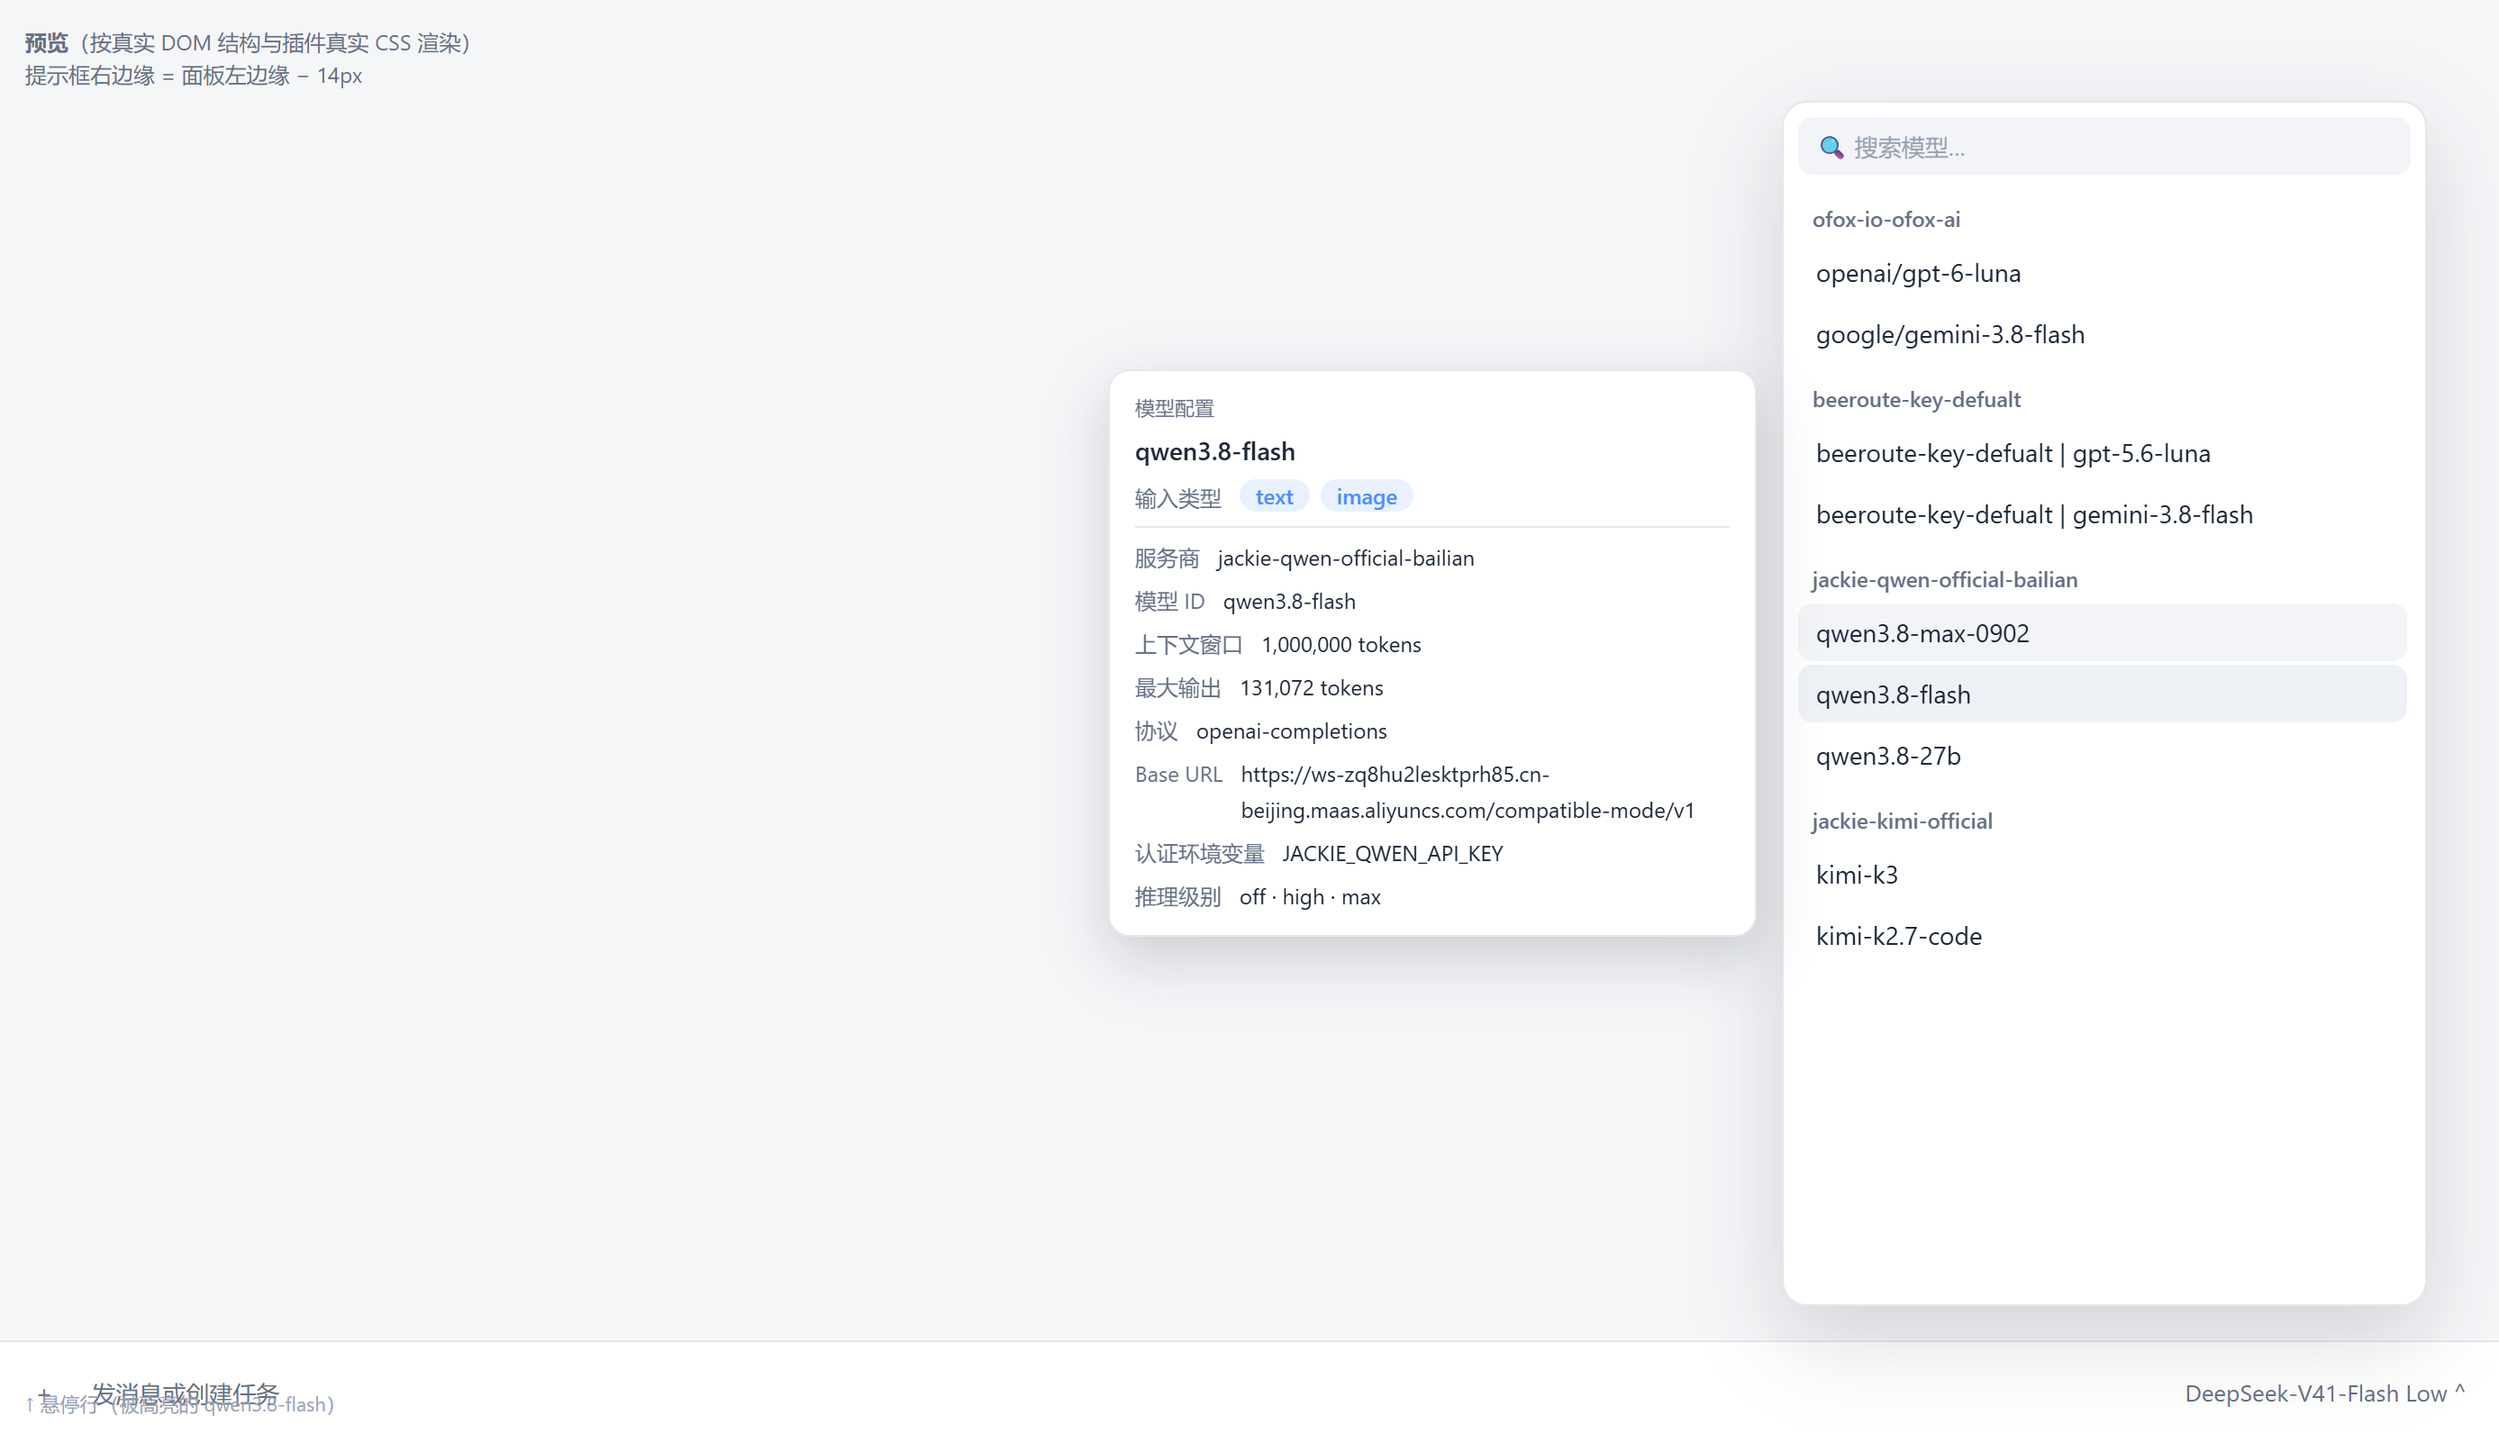
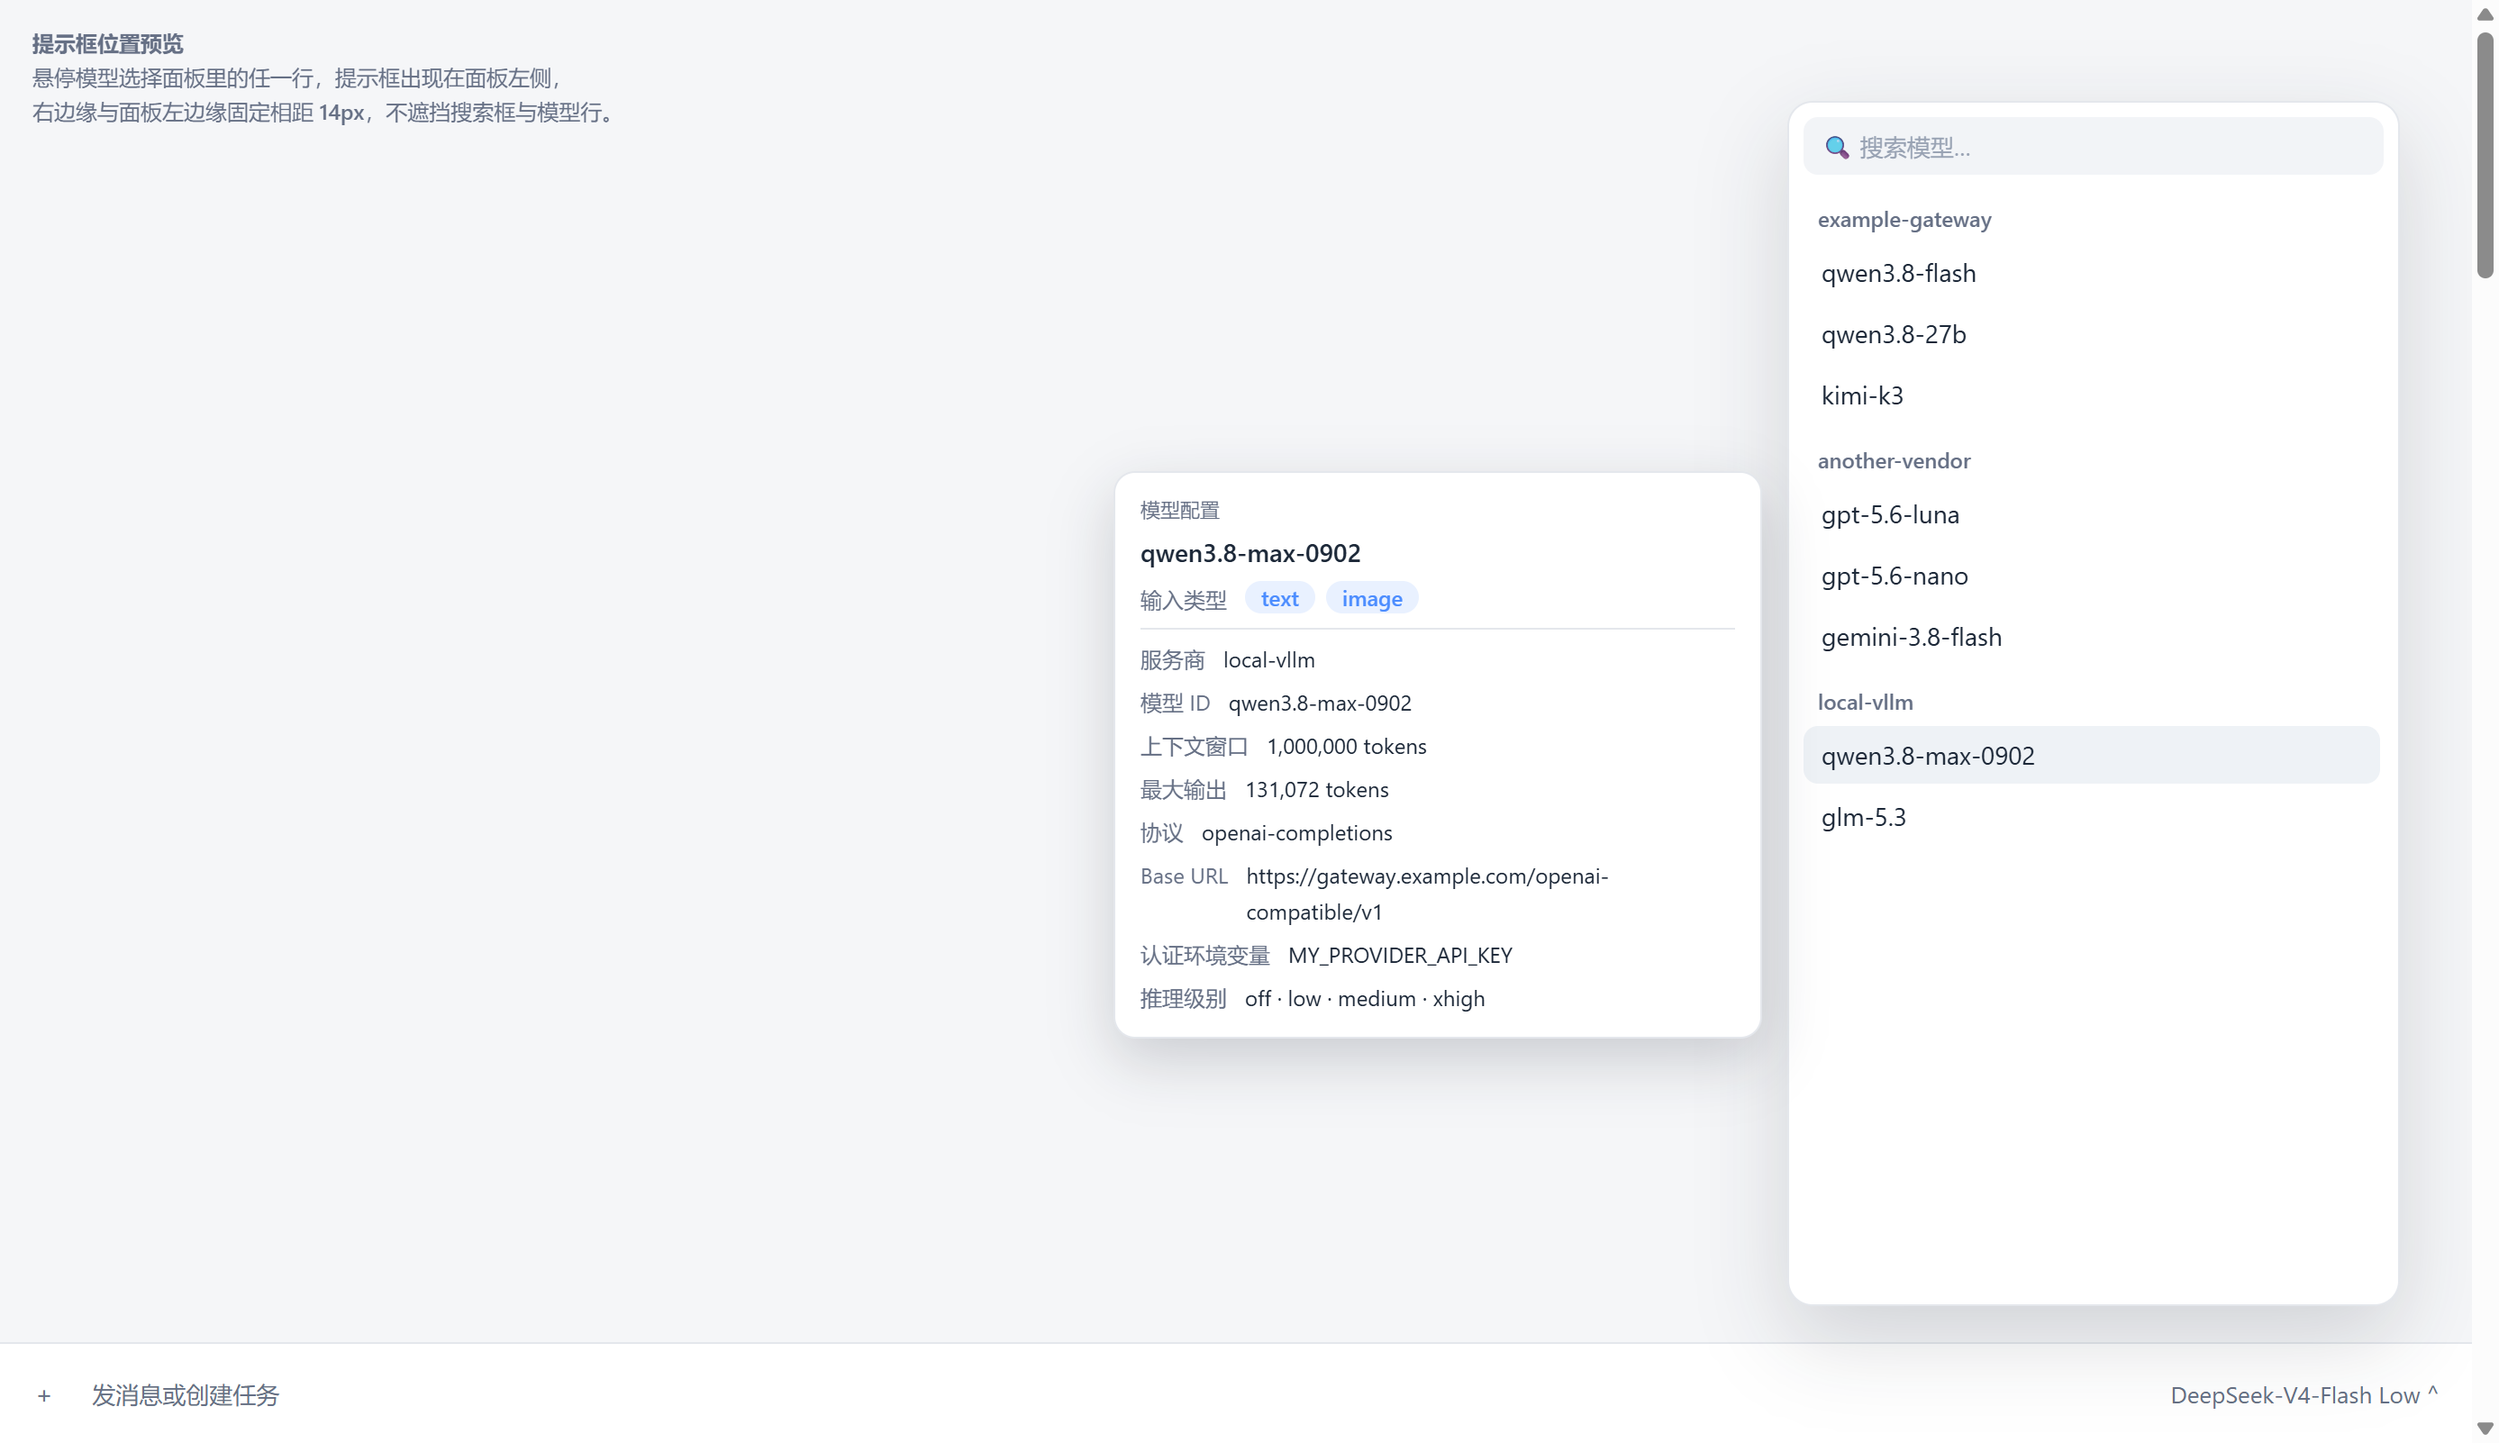
docs: de-identify the README preview and the apiKeyEnv example
The preview image added in 0afac2c rendered the real provider configuration it
was built from: a private gateway hostname, the provider keys, and the
credential environment variable names. Replace it with an image rendered from
generic values — `example-gateway` / `another-vendor` / `local-vllm`,
`https://gateway.example.com/openai-compatible/v1`, `MY_PROVIDER_API_KEY` —
with identical geometry: the hint still sits exactly 14px clear of the picker
panel's left edge, search box and model rows uncovered.

The same three READMEs named a real environment variable in the `apiKeyEnv`
note; use a generic one there too.

Only the license copyright line still names the repository owner, which is
intended: it is the public GitHub handle on the MIT license.

Note for the record: the un-de-identified image bytes remain in the history of
commit 0afac2c. Removing them from the published history would need a rewrite
and a force push, which is a separate decision.

diff --git a/README.cn.md b/README.cn.md
@@ -113,7 +113,7 @@ dsh-model-info-hint/
 - 提示会在移出模型、点击、滚动或按任意键时消失，并在 6 秒后自动消失，避免菜单关闭后残留。
 - 提示只展示 `~/.dsh/settings.yaml` 里声明过的字段，未显式配置的项（例如继承自目录的
   `contextWindow`）不会显示；`input` 因有 provider/默认兜底，始终会显示。
-- `apiKeyEnv` 显示的是环境变量**名称**（例如 `BEEROUTE_KEY_DEFUALT_API_KEY`），不是密钥本身，
+- `apiKeyEnv` 显示的是环境变量**名称**（例如 `MY_PROVIDER_API_KEY`），不是密钥本身，
   settings 文档里存放的也只是变量名。
 - 只覆盖在 settings 文档中声明了模型的适配器；像内置的 `deepseek-official` 这种未在
   `~/.dsh/settings.yaml` 里描述模型的适配器，不会显示提示。

diff --git a/README.md b/README.md
@@ -113,7 +113,7 @@ dsh-model-info-hint/
 - 提示会在移出模型、点击、滚动或按任意键时消失，并在 6 秒后自动消失，避免菜单关闭后残留。
 - 提示只展示 `~/.dsh/settings.yaml` 里声明过的字段，未显式配置的项（例如继承自目录的
   `contextWindow`）不会显示；`input` 因有 provider/默认兜底，始终会显示。
-- `apiKeyEnv` 显示的是环境变量**名称**（例如 `BEEROUTE_KEY_DEFUALT_API_KEY`），不是密钥本身，
+- `apiKeyEnv` 显示的是环境变量**名称**（例如 `MY_PROVIDER_API_KEY`），不是密钥本身，
   settings 文档里存放的也只是变量名。
 - 只覆盖在 settings 文档中声明了模型的适配器；像内置的 `deepseek-official` 这种未在
   `~/.dsh/settings.yaml` 里描述模型的适配器，不会显示提示。

diff --git a/README.en.md b/README.en.md
@@ -116,7 +116,7 @@ dsh-model-info-hint/
 - The hint only shows fields declared in `~/.dsh/settings.yaml`; fields that were not explicitly set
   (for example a `contextWindow` inherited from the catalog) are omitted. `input` always shows because
   it has provider / default fallbacks.
-- `apiKeyEnv` shows the environment variable **name** (e.g. `BEEROUTE_KEY_DEFUALT_API_KEY`), not the
+- `apiKeyEnv` shows the environment variable **name** (e.g. `MY_PROVIDER_API_KEY`), not the
   secret itself — the settings document stores only the variable name.
 - Only adapters that declare models in the settings document are covered; a built-in adapter such as
   `deepseek-official`, which is not described in `~/.dsh/settings.yaml`, shows no hint.
